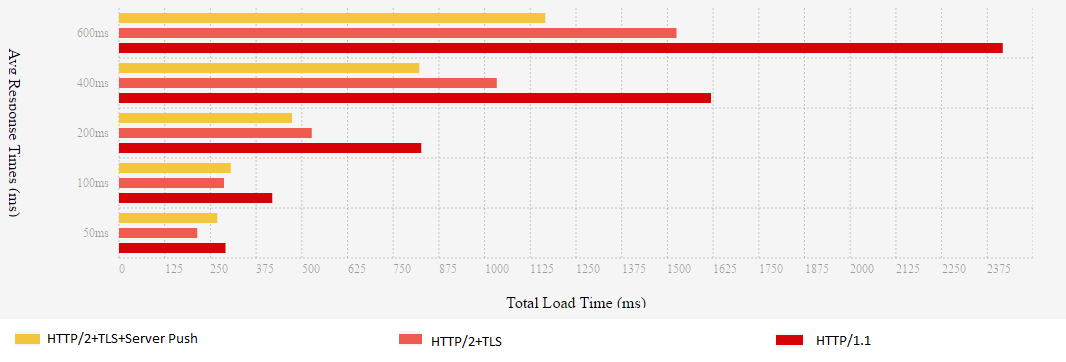
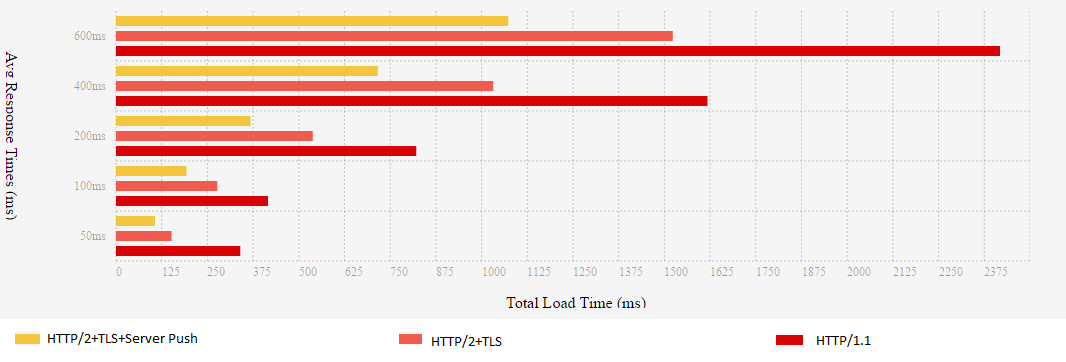
fix demo to be more accurate

Changed region(s): [[0.0619, 0.0304, 0.9597, 0.7597], [0.3715, 0.7293, 0.9597, 0.7597], [0.0, 0.1215, 0.031, 0.6077]]

diff --git a/lib/static/demo/index.html b/lib/static/demo/index.html
@@ -16,11 +16,11 @@
       }
     </style>
     
-    <link rel="stylesheet" href="/demo/demo.css?delay=500" data-push-asset="$" />
-    <link rel="stylesheet" href="/demo/demo.css?delay=500&1" data-push-asset="$" />
-    <link rel="stylesheet" href="/demo/demo.css?delay=500&2" data-push-asset="$" />
-    <link rel="stylesheet" href="/demo/demo.css?delay=500&3" data-push-asset="$" />
-    <link rel="stylesheet" href="/demo/demo.css?delay=500&4" data-push-asset="$" />
+    <link rel="stylesheet" href="/demo/demo.css?delay=250" data-push-asset="$" />
+    <link rel="stylesheet" href="/demo/demo.css?delay=250&1" data-push-asset="$" />
+    <link rel="stylesheet" href="/demo/demo.css?delay=250&2" data-push-asset="$" />
+    <link rel="stylesheet" href="/demo/demo.css?delay=250&3" data-push-asset="$" />
+    <link rel="stylesheet" href="/demo/demo.css?delay=250&4" data-push-asset="$" />
     
   </head>
   <body>
@@ -40,11 +40,11 @@
     <div id="svg">
       <p>My SVG block</p>
       <svg xmlns="http://www.w3.org/2000/svg" xmlns:xlink="http://www.w3.org/1999/xlink" height="10em" width="10em">
-        <image xlink:href="/images/cute_fox.svg?delay=500" x="0" y="0" height="10em" width="10em" data-push-asset="$"/>
+        <image xlink:href="/images/cute_fox.svg?delay=250" x="0" y="0" height="10em" width="10em" data-push-asset="$"/>
       </svg>
     </div>
 
-    <script src="/demo/demo.js?delay=500" data-push-asset="/demo/demo.js"></script>
+    <script src="/demo/demo.js?delay=250" data-push-asset="/demo/demo.js"></script>
 
     <script>
       window.onload = function() {

diff --git a/lib/server.js b/lib/server.js
@@ -46,7 +46,7 @@ function fakeDelayHandler() {
     // ignore delay if the request is a server-push
     if (!delayMs) return void next();
 
-    if (lib.constants.PUSH_RESPONSE_KEY_HEADER in req.headers) {
+    if (req.isPushAsset) {
       delayMs = Math.round(delayMs / 2);
     }
 
@@ -69,7 +69,6 @@ function toggleDynamicHandler() {
     if (getQSParam(req, 'enabled', 'true') === 'false' || getQSParam(req, 'dynamic', 'true') !== 'true') {
       return void next();
     }
-
     dynamicHandler(req, res, next);
   }
 }
